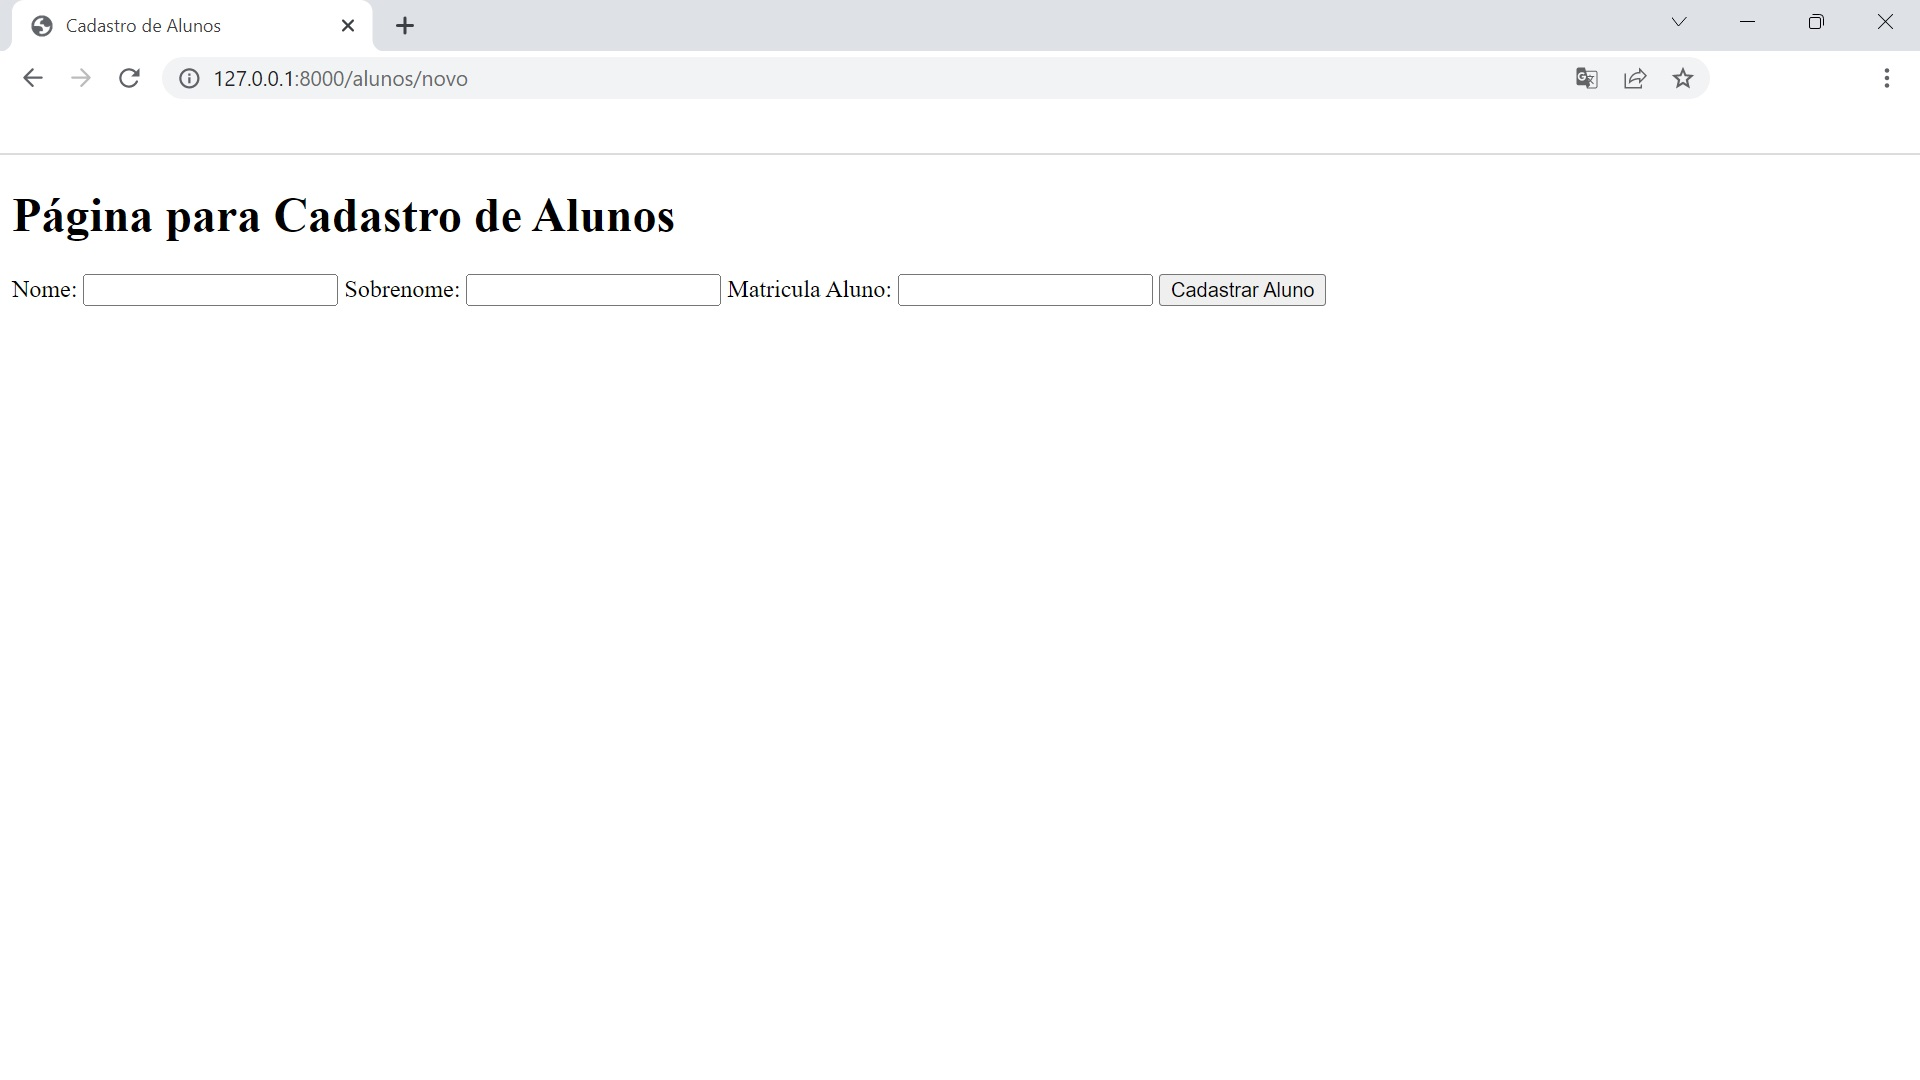
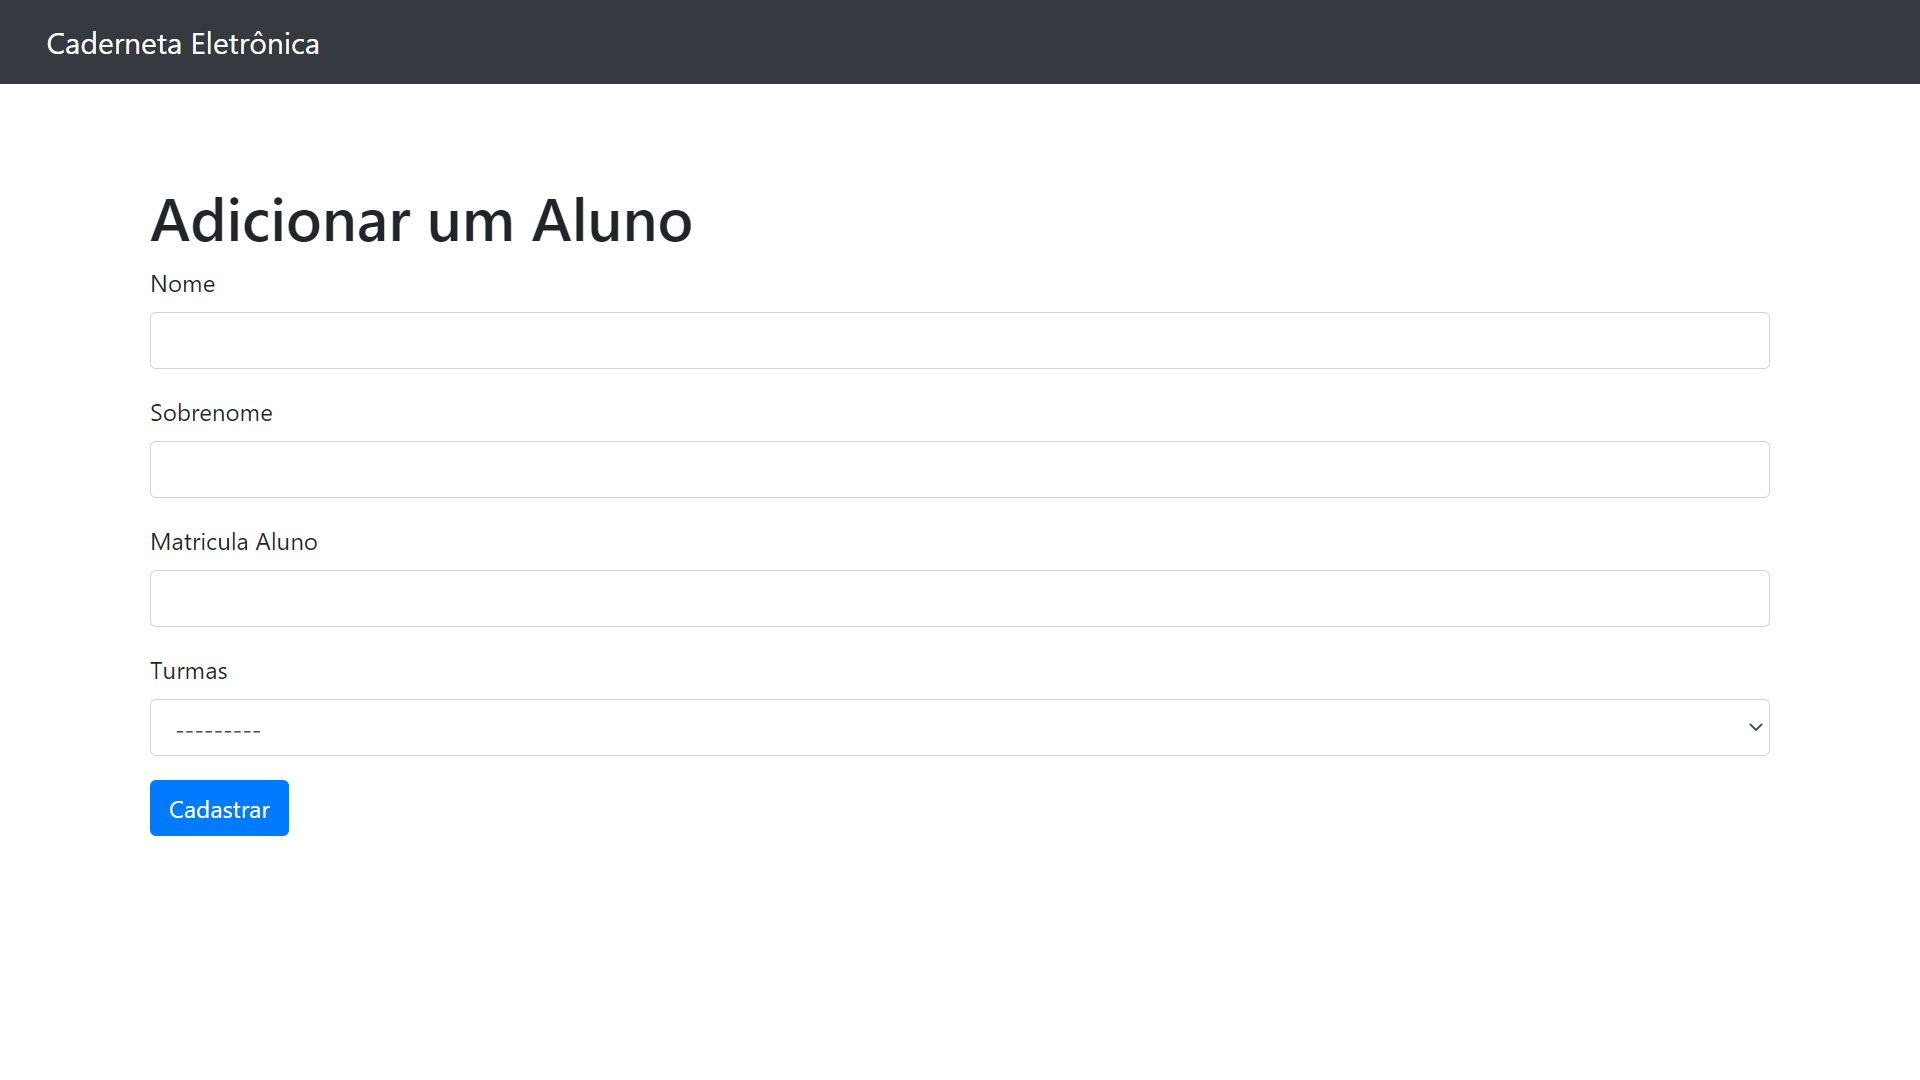
Atualização dos formularios

diff --git a/caderneta/templates/caderneta/alunos/novo.html b/caderneta/templates/caderneta/alunos/novo.html
@@ -1,19 +1,20 @@
-<!DOCTYPE html>
-<html lang="en">
-<head>
-    <meta charset="UTF-8">
-    <title>Cadastro de Alunos</title>
-</head>
+<title>Cadastro de Alunos</title>
+{%extends 'base.html'%}
+{% load bootstrap %}
+{%block conteudo%}
 <body>
-    <h1>Página para Cadastro de Alunos</h1>
-    <form method="post">
-      {% csrf_token %}
-
-
-      {{ form }}
-
-      <button type="submit">Cadastrar Aluno</button>
-    </form>
-
-</body>
-</html>
+  {% comment %} <h1>Adicionar Alunos</h1> {% endcomment %}
+  <div class="container">
+      <h1>Adicionar um Aluno</h1> 
+  </div>
+    <div class="container">
+        <form action="" method="POST">
+            {% csrf_token %}
+              {{ form|bootstrap }}
+            <button type="submit" class="btn btn-primary">Cadastrar</button>
+        </form>
+        
+    </div>
+  </div>
+</body>  
+{% endblock %}

diff --git a/caderneta/templates/caderneta/professores/cadastra.html b/caderneta/templates/caderneta/professores/cadastra.html
@@ -1,19 +1,19 @@
-<!DOCTYPE html>
-<html lang="en">
-<head>
-    <meta charset="UTF-8">
-    <title>Cadastro de novos Professores</title>
-</head>
+<title>Cadastro de Professores</title>
+{%extends 'base.html'%}
+{% load bootstrap %}
+{%block conteudo%}
 <body>
-  <h1>Digite os Dados para Cadastrar</h1>
-
-  <form method="post">
-    {% csrf_token %}
-
-    {{ form }}
-    <button type="submit">Cadastrar</button>
-
-  </form>
-
-</body>
-</html>
+  <div class="container">
+      <h1>Cadastro de Professores</h1> 
+  </div>
+    <div class="container">
+        <form action="" method="POST">
+            {% csrf_token %}
+              {{ form|bootstrap }}
+            <button type="submit" class="btn btn-primary">Cadastrar</button>
+        </form>
+        
+    </div>
+  </div>
+</body>  
+{% endblock %}

diff --git a/templates/base.html b/templates/base.html
@@ -19,11 +19,13 @@
         <form method="get" action="#">
           <div class="form-group row">
             <div class="col-12">
+              <!– caixa de busca sera usada posteriormente
               <input class="form-control"
                      type="search" value=""
                      id="search-input"
                      placeholder="Digite o nome do aluno"
                      name="termo">
+                       
             </div>
           </div>
         </form>

diff --git a/core/settings.py b/core/settings.py
@@ -37,7 +37,8 @@ INSTALLED_APPS = [
     'django.contrib.sessions',
     'django.contrib.messages',
     'django.contrib.staticfiles',
-    'caderneta'
+    'caderneta',
+    'bootstrapform',
 ]
 
 MIDDLEWARE = [
